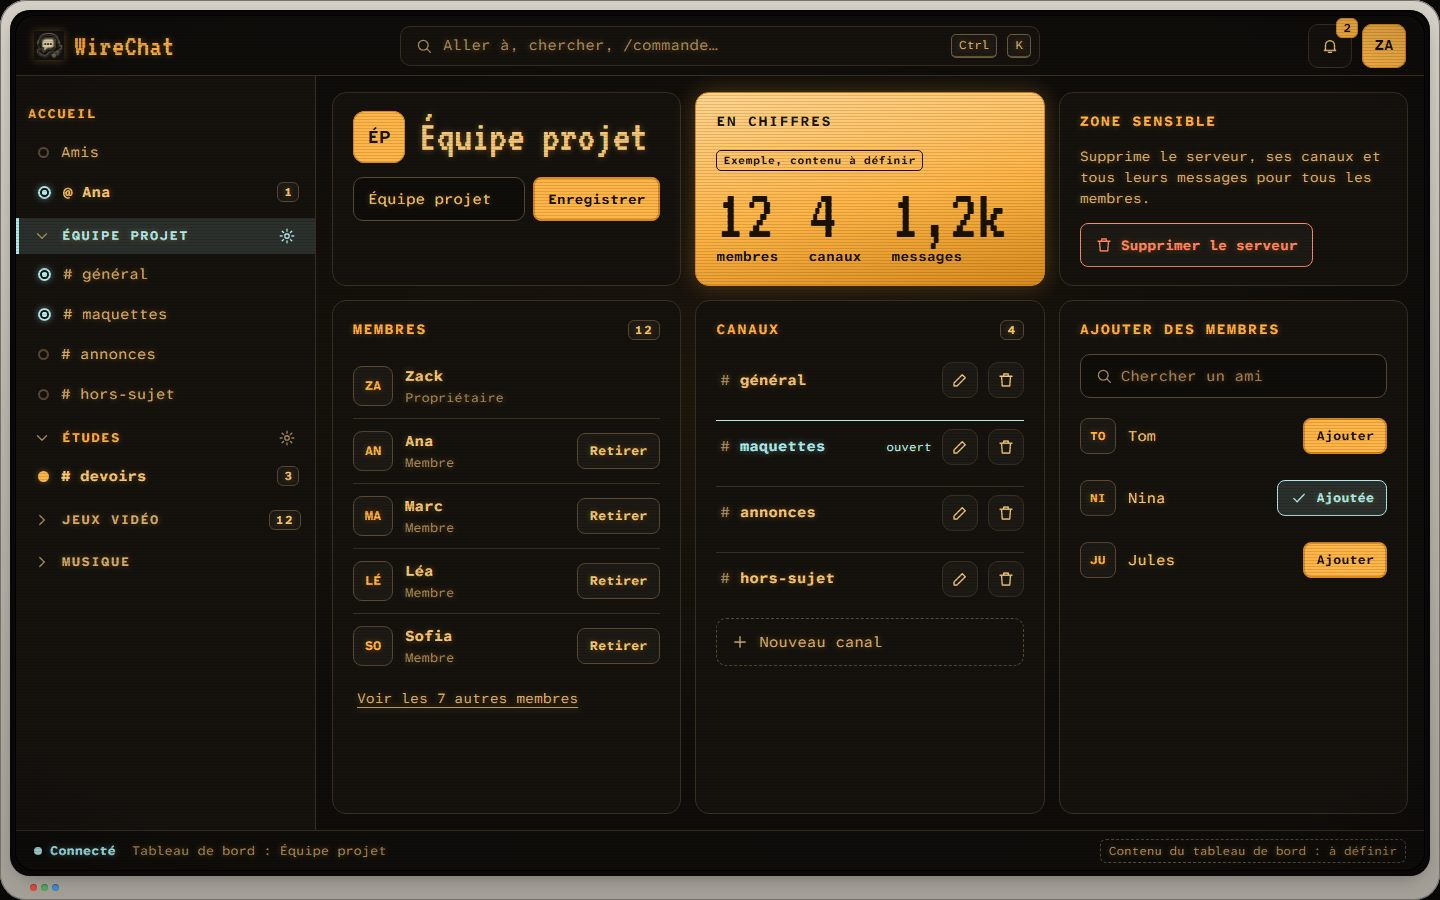
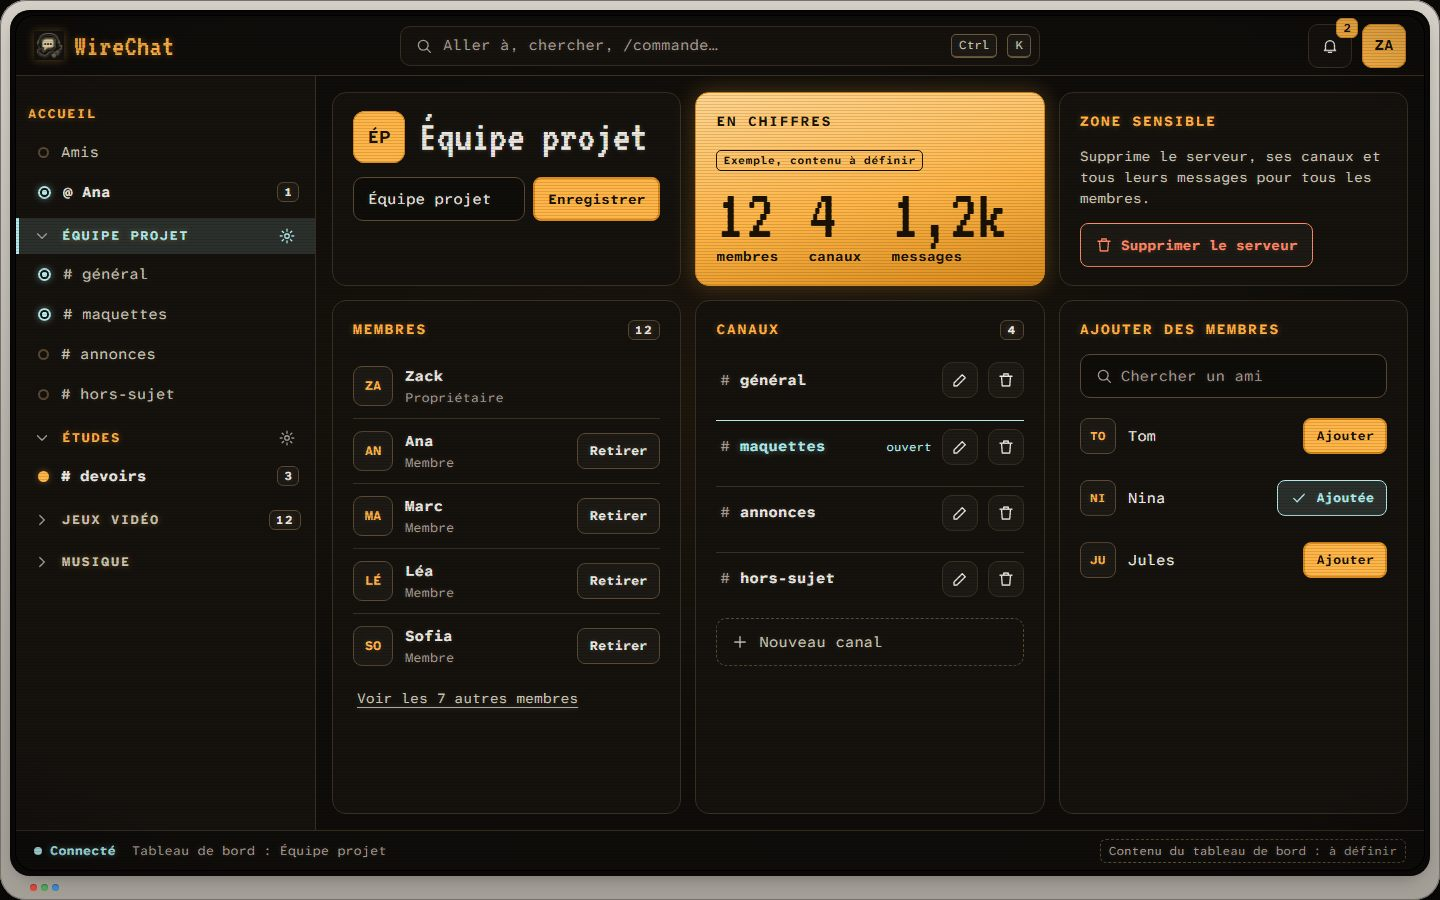
CRT boards: white base text, amber kept for accents

diff --git a/Crt-Spec.html b/Crt-Spec.html
@@ -5,8 +5,8 @@
 <link rel="stylesheet" href="https://fonts.googleapis.com/css2?family=Atkinson+Hyperlegible+Mono:wght@400;700&family=VT323&display=swap">
 <style>
 body{margin:0;background:#0b0a08}
-.dark{--chassis:#1d1b18;--rim:#8e8a82;--glass:#0f0d0a;--panel:#15120e;--raise:#1d1914;--line:#3a3022;--line2:#5a4a33;--ph:#f4c77a;--ph2:#d2ad72;--dim:#a68b62;--hot:#ffb547;--amb:#ffb547;--amb-hi:#ffd58f;--amb-lo:#d98a1c;--onamb:#1a1206;--blue:#b2e9eb;--blue-ink:#b2e9eb;--blue-fill:rgba(178,233,235,.14);--key-b-hi:#e6fbfc;--key-b:#b2e9eb;--key-b-lo:#7cc5c9;--onblue:#0b2427;--focus:#b2e9eb;--blue-glow:rgba(178,233,235,.38);--err:#ff8a66;--glow:0 0 6px rgba(255,181,71,.38);--glow-b:0 0 7px rgba(178,233,235,.45);--scan:rgba(0,0,0,.13);--vig:rgba(0,0,0,.42);--sel:rgba(255,181,71,.28);--field:rgba(255,170,60,.06);--keyb:#6e5b3f}
-.light{--chassis:#cfcac0;--rim:#8e8a82;--glass:#e4e1da;--panel:#efede7;--raise:#f8f6f1;--line:#c9c2b4;--line2:#9c9485;--ph:#1c1712;--ph2:#3d3427;--dim:#5e5444;--hot:#8a4f00;--amb:#e7a13c;--amb-hi:#f6c77a;--amb-lo:#c8811a;--onamb:#1a1206;--blue:#0b5d63;--blue-ink:#0b5d63;--blue-fill:#b2e9eb;--key-b-hi:#2a8a91;--key-b:#0b5d63;--key-b-lo:#07454a;--onblue:#ffffff;--focus:#0b5d63;--blue-glow:rgba(11,93,99,.22);--err:#b3261e;--glow:none;--glow-b:none;--scan:rgba(40,30,15,.05);--vig:rgba(70,58,38,.14);--sel:rgba(231,161,60,.35);--field:rgba(255,255,255,.35);--keyb:#9c9485}
+.dark{--chassis:#1d1b18;--rim:#8e8a82;--glass:#0f0d0a;--panel:#15120e;--raise:#1d1914;--line:#3a3022;--line2:#5a4a33;--ph:#ece8e1;--ph2:#c8c2b8;--dim:#a39d93;--hot:#ffb547;--amb:#ffb547;--amb-hi:#ffd58f;--amb-lo:#d98a1c;--onamb:#1a1206;--blue:#b2e9eb;--blue-ink:#b2e9eb;--blue-fill:rgba(178,233,235,.14);--key-b-hi:#e6fbfc;--key-b:#b2e9eb;--key-b-lo:#7cc5c9;--onblue:#0b2427;--focus:#b2e9eb;--blue-glow:rgba(178,233,235,.38);--err:#ff8a66;--glow:0 0 5px rgba(236,232,225,.2);--glow-a:0 0 6px rgba(255,181,71,.38);--glow-b:0 0 7px rgba(178,233,235,.45);--scan:rgba(0,0,0,.13);--vig:rgba(0,0,0,.42);--sel:rgba(255,181,71,.28);--field:rgba(255,170,60,.06);--keyb:#6e5b3f}
+.light{--chassis:#cfcac0;--rim:#8e8a82;--glass:#e4e1da;--panel:#efede7;--raise:#f8f6f1;--line:#c9c2b4;--line2:#9c9485;--ph:#1c1712;--ph2:#3d3427;--dim:#5e5444;--hot:#8a4f00;--amb:#e7a13c;--amb-hi:#f6c77a;--amb-lo:#c8811a;--onamb:#1a1206;--blue:#0b5d63;--blue-ink:#0b5d63;--blue-fill:#b2e9eb;--key-b-hi:#2a8a91;--key-b:#0b5d63;--key-b-lo:#07454a;--onblue:#ffffff;--focus:#0b5d63;--blue-glow:rgba(11,93,99,.22);--err:#b3261e;--glow:none;--glow-a:none;--glow-b:none;--scan:rgba(40,30,15,.05);--vig:rgba(70,58,38,.14);--sel:rgba(231,161,60,.35);--field:rgba(255,255,255,.35);--keyb:#9c9485}
 .tv{position:relative;box-sizing:border-box;width:100%;height:100%;padding:16px 16px 30px;border-radius:26px;background:linear-gradient(180deg,#d4d0c8 0%,#b9b5ad 48%,#a39f97 100%);box-shadow:inset 0 0 0 1px #77736c,inset 0 1px 0 rgba(255,255,255,.6),0 10px 30px rgba(0,0,0,.45)}
 .tv:before{content:"";position:absolute;inset:10px 10px 24px;border-radius:20px;background:#0c0b0a;box-shadow:inset 0 2px 3px rgba(0,0,0,.8)}
 .tv>.screen{position:relative;z-index:1}
@@ -149,6 +149,8 @@ button{font:inherit;color:inherit;text-shadow:inherit;background:none;border:0;p
 .chrow.on{box-shadow:none}
 .chrow.on .nm{color:var(--blue-ink);text-shadow:var(--glow-b)}
 .chrow .open{font-size:12px;color:var(--blue-ink)}
+.word,.sec,.m b,.card h2,.spec h2,.dot.un,.typ i,.caret,.chip.mine,.men{text-shadow:var(--glow-a)}
+.dot.un,.typ i,.caret{box-shadow:var(--glow-a)}
 .send{color:var(--onblue);background-color:var(--key-b);background-image:linear-gradient(180deg,var(--key-b-hi) 0%,var(--key-b) 46%,var(--key-b-lo) 100%);box-shadow:inset 0 0 0 1px rgba(0,0,0,.32),inset 0 1px 0 rgba(255,255,255,.45),0 0 14px var(--blue-glow),0 2px 4px rgba(0,0,0,.35)}
 .chip.mine{border-color:var(--blue);background:var(--blue-fill);box-shadow:var(--glow-b)}
 .me,.btn.pri,.sv .badge{background-image:none;background-color:var(--amb);box-shadow:inset 0 0 0 1px var(--amb-lo)}
@@ -188,10 +190,10 @@ button{font:inherit;color:inherit;text-shadow:inherit;background:none;border:0;p
 <div class="tv"><span class="bezel-triad" aria-hidden="true"><i></i><i></i><i></i></span><div class="screen" style="overflow:hidden">
 <div class="spec">
   <h1 class="word" style="font-size:52px">WireChat, sur un écran cathodique</h1>
-  <p class="lead">Ambre phosphore pour tout le texte, bleu Trinitron <b>#B2E9EB</b> pour ce qui est actif. Les effets (lueur, lignes de balayage, vignettage) restent légers et peuvent être coupés dans les réglages (Tweaks : effets).</p>
+  <p class="lead">Texte blanc phosphore, ambre pour les noms, titres et non-lus, bleu Trinitron <b>#B2E9EB</b> pour ce qui est actif. Les effets (lueur, lignes de balayage, vignettage) restent légers et peuvent être coupés dans les réglages (Tweaks : effets).</p>
   <div class="two">
     <section><h2>Palette sombre</h2>
-      <div class="sw"><span style="background:#0f0d0a"></span><b>Verre</b><small>#0f0d0a</small></div><div class="sw"><span style="background:#15120e"></span><b>Panneau</b><small>#15120e</small></div><div class="sw"><span style="background:#f4c77a"></span><b>Phosphore</b><small>#f4c77a · 11,8:1</small></div><div class="sw"><span style="background:#ffb547"></span><b>Noms</b><small>#ffb547 · 10,6:1</small></div><div class="sw"><span style="background:#a68b62"></span><b>Atténué</b><small>#a68b62 · 5,8:1</small></div><div class="sw"><span style="background:#b2e9eb"></span><b>Bleu actif</b><small>#b2e9eb · 14:1</small></div><div class="sw"><span style="background:#ff8a66"></span><b>Erreur</b><small>#ff8a66 · 8,1:1</small></div><div class="sw"><span style="background:#8e8a82"></span><b>Alu</b><small>#8e8a82</small></div>
+      <div class="sw"><span style="background:#0f0d0a"></span><b>Verre</b><small>#0f0d0a</small></div><div class="sw"><span style="background:#15120e"></span><b>Panneau</b><small>#15120e</small></div><div class="sw"><span style="background:#ece8e1"></span><b>Texte</b><small>#ece8e1 · 15,3:1</small></div><div class="sw"><span style="background:#ffb547"></span><b>Noms</b><small>#ffb547 · 10,6:1</small></div><div class="sw"><span style="background:#a39d93"></span><b>Atténué</b><small>#a39d93 · 6,9:1</small></div><div class="sw"><span style="background:#b2e9eb"></span><b>Bleu actif</b><small>#b2e9eb · 14:1</small></div><div class="sw"><span style="background:#ff8a66"></span><b>Erreur</b><small>#ff8a66 · 8,1:1</small></div><div class="sw"><span style="background:#8e8a82"></span><b>Alu</b><small>#8e8a82</small></div>
     </section>
     <section><h2>Palette claire</h2>
       <div class="sw"><span style="background:#e4e1da"></span><b>Verre</b><small>#e4e1da</small></div><div class="sw"><span style="background:#efede7"></span><b>Panneau</b><small>#efede7</small></div><div class="sw"><span style="background:#1c1712"></span><b>Encre</b><small>#1c1712 · 15,2:1</small></div><div class="sw"><span style="background:#8a4f00"></span><b>Noms</b><small>#8a4f00 · 5,6:1</small></div><div class="sw"><span style="background:#5e5444"></span><b>Atténué</b><small>#5e5444 · 6,3:1</small></div><div class="sw"><span style="background:#0b5d63"></span><b>Bleu actif</b><small>#0b5d63 · 6,5:1</small></div><div class="sw"><span style="background:#b2e9eb"></span><b>Fond bleu</b><small>#b2e9eb</small></div><div class="sw"><span style="background:#b3261e"></span><b>Erreur</b><small>#b3261e · 5,6:1</small></div>
@@ -201,7 +203,7 @@ button{font:inherit;color:inherit;text-shadow:inherit;background:none;border:0;p
     <div class="anat">
       <div class="big"><div class="field" style="min-height:64px"><span class="val" style="font-size:20px">ok, je regarde le<span class="caret" style="height:22px;width:11px"></span></span><span class="kbd">Entrée</span><button class="send" style="width:74px;height:56px" aria-label="Envoyer"><svg viewBox="0 0 24 24" aria-hidden="true"><path d="M21 3L10 14"/><path d="M21 3l-7 18-4-7-7-4z"/></svg></button></div></div>
       <ol>
-        <li><b>Lueur</b> : le texte ambre porte un halo de 6 px. Désactivée en thème clair.</li>
+        <li><b>Lueur</b> : halo léger sur le texte blanc, plus marqué sur l'ambre et le bleu. Désactivée en thème clair.</li>
         <li><b>Balayage</b> : une ligne sombre toutes les 3 px sur tout l'écran, aussi sur les boutons pleins.</li>
         <li><b>Vignettage</b> : les coins s'assombrissent comme derrière un verre bombé.</li>
         <li><b>Touche lumineuse</b> : bouton d'envoi en dégradé bleu Trinitron, reflet en haut, liseré sombre, halo.</li>

diff --git a/Crt-Chat.html b/Crt-Chat.html
@@ -5,8 +5,8 @@
 <link rel="stylesheet" href="https://fonts.googleapis.com/css2?family=Atkinson+Hyperlegible+Mono:wght@400;700&family=VT323&display=swap">
 <style>
 body{margin:0;background:#0b0a08}
-.dark{--chassis:#1d1b18;--rim:#8e8a82;--glass:#0f0d0a;--panel:#15120e;--raise:#1d1914;--line:#3a3022;--line2:#5a4a33;--ph:#f4c77a;--ph2:#d2ad72;--dim:#a68b62;--hot:#ffb547;--amb:#ffb547;--amb-hi:#ffd58f;--amb-lo:#d98a1c;--onamb:#1a1206;--blue:#b2e9eb;--blue-ink:#b2e9eb;--blue-fill:rgba(178,233,235,.14);--key-b-hi:#e6fbfc;--key-b:#b2e9eb;--key-b-lo:#7cc5c9;--onblue:#0b2427;--focus:#b2e9eb;--blue-glow:rgba(178,233,235,.38);--err:#ff8a66;--glow:0 0 6px rgba(255,181,71,.38);--glow-b:0 0 7px rgba(178,233,235,.45);--scan:rgba(0,0,0,.13);--vig:rgba(0,0,0,.42);--sel:rgba(255,181,71,.28);--field:rgba(255,170,60,.06);--keyb:#6e5b3f}
-.light{--chassis:#cfcac0;--rim:#8e8a82;--glass:#e4e1da;--panel:#efede7;--raise:#f8f6f1;--line:#c9c2b4;--line2:#9c9485;--ph:#1c1712;--ph2:#3d3427;--dim:#5e5444;--hot:#8a4f00;--amb:#e7a13c;--amb-hi:#f6c77a;--amb-lo:#c8811a;--onamb:#1a1206;--blue:#0b5d63;--blue-ink:#0b5d63;--blue-fill:#b2e9eb;--key-b-hi:#2a8a91;--key-b:#0b5d63;--key-b-lo:#07454a;--onblue:#ffffff;--focus:#0b5d63;--blue-glow:rgba(11,93,99,.22);--err:#b3261e;--glow:none;--glow-b:none;--scan:rgba(40,30,15,.05);--vig:rgba(70,58,38,.14);--sel:rgba(231,161,60,.35);--field:rgba(255,255,255,.35);--keyb:#9c9485}
+.dark{--chassis:#1d1b18;--rim:#8e8a82;--glass:#0f0d0a;--panel:#15120e;--raise:#1d1914;--line:#3a3022;--line2:#5a4a33;--ph:#ece8e1;--ph2:#c8c2b8;--dim:#a39d93;--hot:#ffb547;--amb:#ffb547;--amb-hi:#ffd58f;--amb-lo:#d98a1c;--onamb:#1a1206;--blue:#b2e9eb;--blue-ink:#b2e9eb;--blue-fill:rgba(178,233,235,.14);--key-b-hi:#e6fbfc;--key-b:#b2e9eb;--key-b-lo:#7cc5c9;--onblue:#0b2427;--focus:#b2e9eb;--blue-glow:rgba(178,233,235,.38);--err:#ff8a66;--glow:0 0 5px rgba(236,232,225,.2);--glow-a:0 0 6px rgba(255,181,71,.38);--glow-b:0 0 7px rgba(178,233,235,.45);--scan:rgba(0,0,0,.13);--vig:rgba(0,0,0,.42);--sel:rgba(255,181,71,.28);--field:rgba(255,170,60,.06);--keyb:#6e5b3f}
+.light{--chassis:#cfcac0;--rim:#8e8a82;--glass:#e4e1da;--panel:#efede7;--raise:#f8f6f1;--line:#c9c2b4;--line2:#9c9485;--ph:#1c1712;--ph2:#3d3427;--dim:#5e5444;--hot:#8a4f00;--amb:#e7a13c;--amb-hi:#f6c77a;--amb-lo:#c8811a;--onamb:#1a1206;--blue:#0b5d63;--blue-ink:#0b5d63;--blue-fill:#b2e9eb;--key-b-hi:#2a8a91;--key-b:#0b5d63;--key-b-lo:#07454a;--onblue:#ffffff;--focus:#0b5d63;--blue-glow:rgba(11,93,99,.22);--err:#b3261e;--glow:none;--glow-a:none;--glow-b:none;--scan:rgba(40,30,15,.05);--vig:rgba(70,58,38,.14);--sel:rgba(231,161,60,.35);--field:rgba(255,255,255,.35);--keyb:#9c9485}
 .tv{position:relative;box-sizing:border-box;width:100%;height:100%;padding:16px 16px 30px;border-radius:26px;background:linear-gradient(180deg,#d4d0c8 0%,#b9b5ad 48%,#a39f97 100%);box-shadow:inset 0 0 0 1px #77736c,inset 0 1px 0 rgba(255,255,255,.6),0 10px 30px rgba(0,0,0,.45)}
 .tv:before{content:"";position:absolute;inset:10px 10px 24px;border-radius:20px;background:#0c0b0a;box-shadow:inset 0 2px 3px rgba(0,0,0,.8)}
 .tv>.screen{position:relative;z-index:1}
@@ -149,6 +149,8 @@ button{font:inherit;color:inherit;text-shadow:inherit;background:none;border:0;p
 .chrow.on{box-shadow:none}
 .chrow.on .nm{color:var(--blue-ink);text-shadow:var(--glow-b)}
 .chrow .open{font-size:12px;color:var(--blue-ink)}
+.word,.sec,.m b,.card h2,.spec h2,.dot.un,.typ i,.caret,.chip.mine,.men{text-shadow:var(--glow-a)}
+.dot.un,.typ i,.caret{box-shadow:var(--glow-a)}
 .send{color:var(--onblue);background-color:var(--key-b);background-image:linear-gradient(180deg,var(--key-b-hi) 0%,var(--key-b) 46%,var(--key-b-lo) 100%);box-shadow:inset 0 0 0 1px rgba(0,0,0,.32),inset 0 1px 0 rgba(255,255,255,.45),0 0 14px var(--blue-glow),0 2px 4px rgba(0,0,0,.35)}
 .chip.mine{border-color:var(--blue);background:var(--blue-fill);box-shadow:var(--glow-b)}
 .me,.btn.pri,.sv .badge{background-image:none;background-color:var(--amb);box-shadow:inset 0 0 0 1px var(--amb-lo)}

diff --git a/Crt-Dashboard.html b/Crt-Dashboard.html
@@ -5,8 +5,8 @@
 <link rel="stylesheet" href="https://fonts.googleapis.com/css2?family=Atkinson+Hyperlegible+Mono:wght@400;700&family=VT323&display=swap">
 <style>
 body{margin:0;background:#0b0a08}
-.dark{--chassis:#1d1b18;--rim:#8e8a82;--glass:#0f0d0a;--panel:#15120e;--raise:#1d1914;--line:#3a3022;--line2:#5a4a33;--ph:#f4c77a;--ph2:#d2ad72;--dim:#a68b62;--hot:#ffb547;--amb:#ffb547;--amb-hi:#ffd58f;--amb-lo:#d98a1c;--onamb:#1a1206;--blue:#b2e9eb;--blue-ink:#b2e9eb;--blue-fill:rgba(178,233,235,.14);--key-b-hi:#e6fbfc;--key-b:#b2e9eb;--key-b-lo:#7cc5c9;--onblue:#0b2427;--focus:#b2e9eb;--blue-glow:rgba(178,233,235,.38);--err:#ff8a66;--glow:0 0 6px rgba(255,181,71,.38);--glow-b:0 0 7px rgba(178,233,235,.45);--scan:rgba(0,0,0,.13);--vig:rgba(0,0,0,.42);--sel:rgba(255,181,71,.28);--field:rgba(255,170,60,.06);--keyb:#6e5b3f}
-.light{--chassis:#cfcac0;--rim:#8e8a82;--glass:#e4e1da;--panel:#efede7;--raise:#f8f6f1;--line:#c9c2b4;--line2:#9c9485;--ph:#1c1712;--ph2:#3d3427;--dim:#5e5444;--hot:#8a4f00;--amb:#e7a13c;--amb-hi:#f6c77a;--amb-lo:#c8811a;--onamb:#1a1206;--blue:#0b5d63;--blue-ink:#0b5d63;--blue-fill:#b2e9eb;--key-b-hi:#2a8a91;--key-b:#0b5d63;--key-b-lo:#07454a;--onblue:#ffffff;--focus:#0b5d63;--blue-glow:rgba(11,93,99,.22);--err:#b3261e;--glow:none;--glow-b:none;--scan:rgba(40,30,15,.05);--vig:rgba(70,58,38,.14);--sel:rgba(231,161,60,.35);--field:rgba(255,255,255,.35);--keyb:#9c9485}
+.dark{--chassis:#1d1b18;--rim:#8e8a82;--glass:#0f0d0a;--panel:#15120e;--raise:#1d1914;--line:#3a3022;--line2:#5a4a33;--ph:#ece8e1;--ph2:#c8c2b8;--dim:#a39d93;--hot:#ffb547;--amb:#ffb547;--amb-hi:#ffd58f;--amb-lo:#d98a1c;--onamb:#1a1206;--blue:#b2e9eb;--blue-ink:#b2e9eb;--blue-fill:rgba(178,233,235,.14);--key-b-hi:#e6fbfc;--key-b:#b2e9eb;--key-b-lo:#7cc5c9;--onblue:#0b2427;--focus:#b2e9eb;--blue-glow:rgba(178,233,235,.38);--err:#ff8a66;--glow:0 0 5px rgba(236,232,225,.2);--glow-a:0 0 6px rgba(255,181,71,.38);--glow-b:0 0 7px rgba(178,233,235,.45);--scan:rgba(0,0,0,.13);--vig:rgba(0,0,0,.42);--sel:rgba(255,181,71,.28);--field:rgba(255,170,60,.06);--keyb:#6e5b3f}
+.light{--chassis:#cfcac0;--rim:#8e8a82;--glass:#e4e1da;--panel:#efede7;--raise:#f8f6f1;--line:#c9c2b4;--line2:#9c9485;--ph:#1c1712;--ph2:#3d3427;--dim:#5e5444;--hot:#8a4f00;--amb:#e7a13c;--amb-hi:#f6c77a;--amb-lo:#c8811a;--onamb:#1a1206;--blue:#0b5d63;--blue-ink:#0b5d63;--blue-fill:#b2e9eb;--key-b-hi:#2a8a91;--key-b:#0b5d63;--key-b-lo:#07454a;--onblue:#ffffff;--focus:#0b5d63;--blue-glow:rgba(11,93,99,.22);--err:#b3261e;--glow:none;--glow-a:none;--glow-b:none;--scan:rgba(40,30,15,.05);--vig:rgba(70,58,38,.14);--sel:rgba(231,161,60,.35);--field:rgba(255,255,255,.35);--keyb:#9c9485}
 .tv{position:relative;box-sizing:border-box;width:100%;height:100%;padding:16px 16px 30px;border-radius:26px;background:linear-gradient(180deg,#d4d0c8 0%,#b9b5ad 48%,#a39f97 100%);box-shadow:inset 0 0 0 1px #77736c,inset 0 1px 0 rgba(255,255,255,.6),0 10px 30px rgba(0,0,0,.45)}
 .tv:before{content:"";position:absolute;inset:10px 10px 24px;border-radius:20px;background:#0c0b0a;box-shadow:inset 0 2px 3px rgba(0,0,0,.8)}
 .tv>.screen{position:relative;z-index:1}
@@ -149,6 +149,8 @@ button{font:inherit;color:inherit;text-shadow:inherit;background:none;border:0;p
 .chrow.on{box-shadow:none}
 .chrow.on .nm{color:var(--blue-ink);text-shadow:var(--glow-b)}
 .chrow .open{font-size:12px;color:var(--blue-ink)}
+.word,.sec,.m b,.card h2,.spec h2,.dot.un,.typ i,.caret,.chip.mine,.men{text-shadow:var(--glow-a)}
+.dot.un,.typ i,.caret{box-shadow:var(--glow-a)}
 .send{color:var(--onblue);background-color:var(--key-b);background-image:linear-gradient(180deg,var(--key-b-hi) 0%,var(--key-b) 46%,var(--key-b-lo) 100%);box-shadow:inset 0 0 0 1px rgba(0,0,0,.32),inset 0 1px 0 rgba(255,255,255,.45),0 0 14px var(--blue-glow),0 2px 4px rgba(0,0,0,.35)}
 .chip.mine{border-color:var(--blue);background:var(--blue-fill);box-shadow:var(--glow-b)}
 .me,.btn.pri,.sv .badge{background-image:none;background-color:var(--amb);box-shadow:inset 0 0 0 1px var(--amb-lo)}
